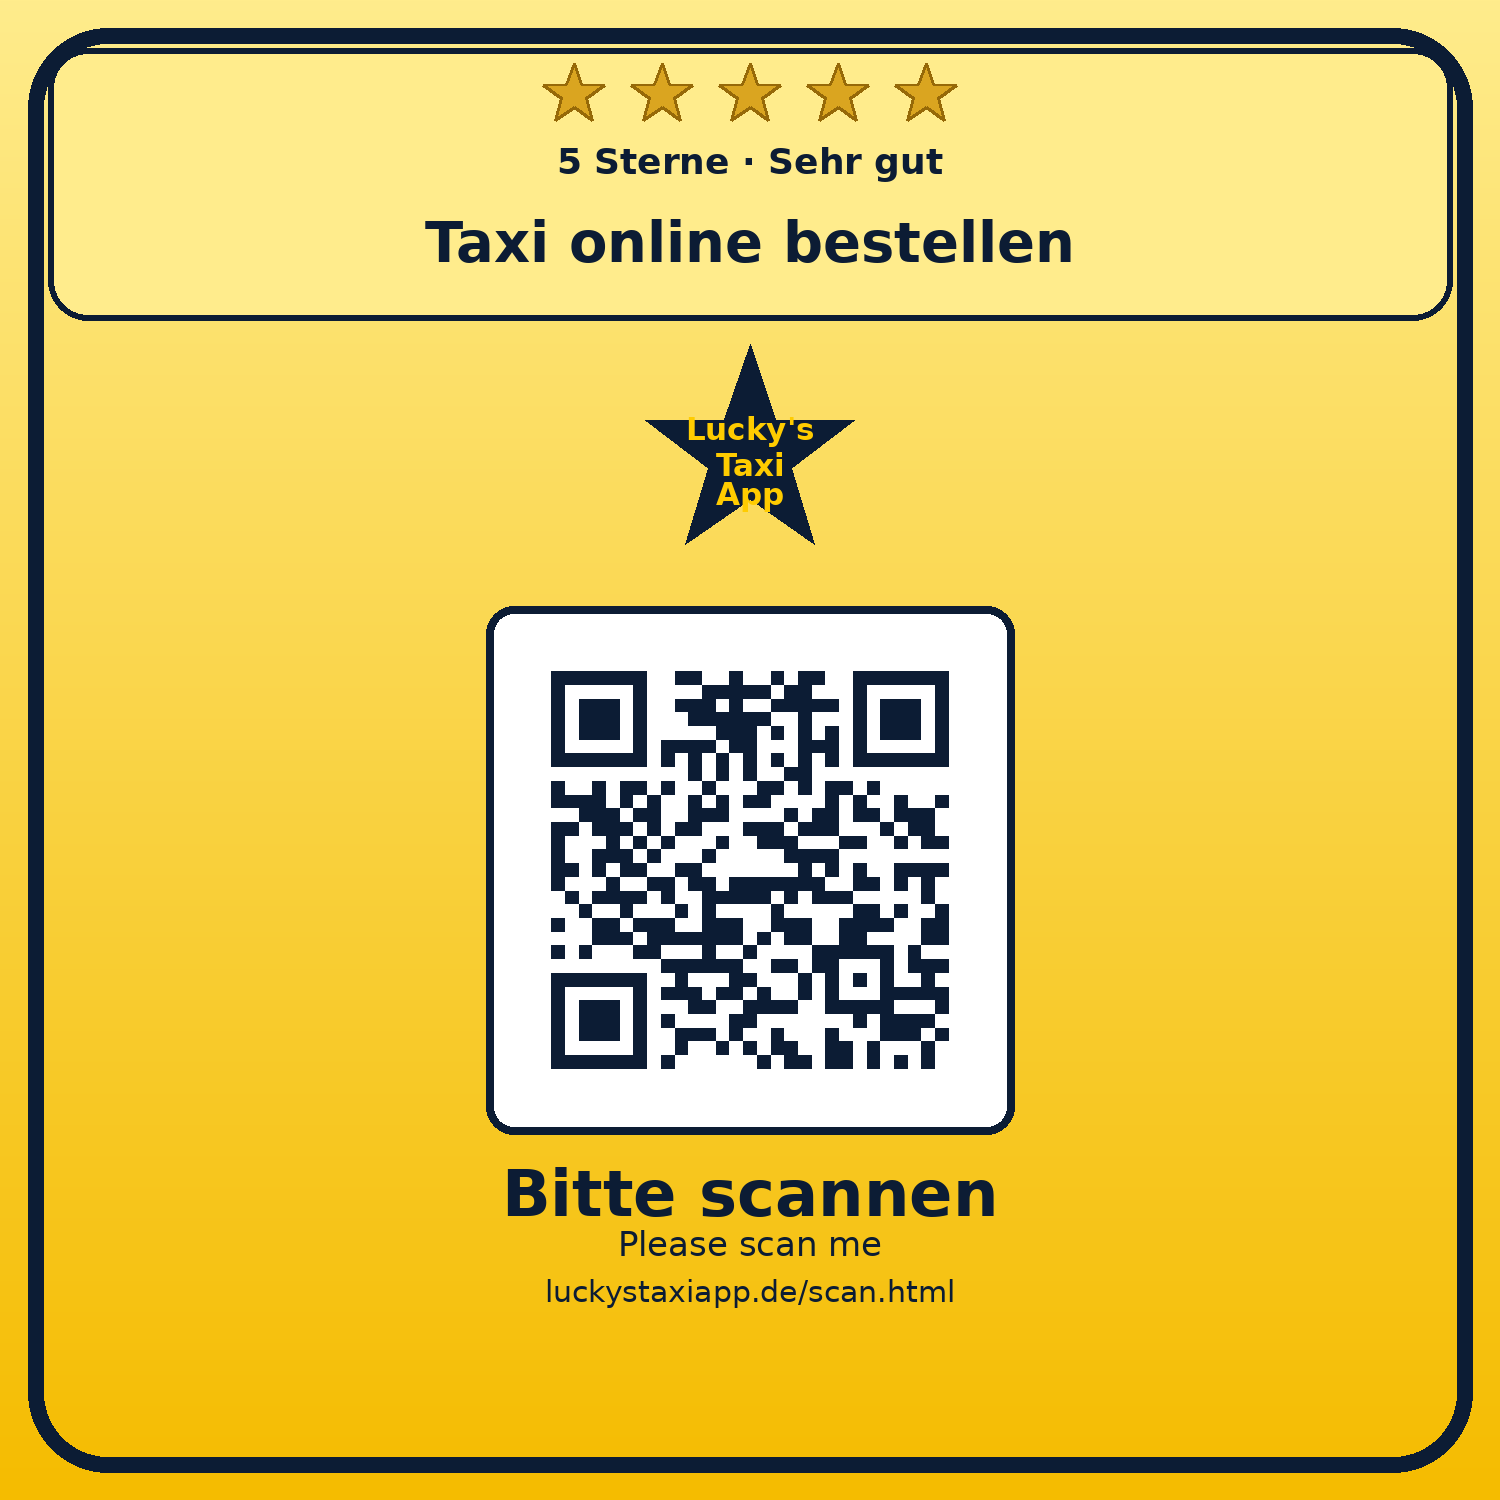
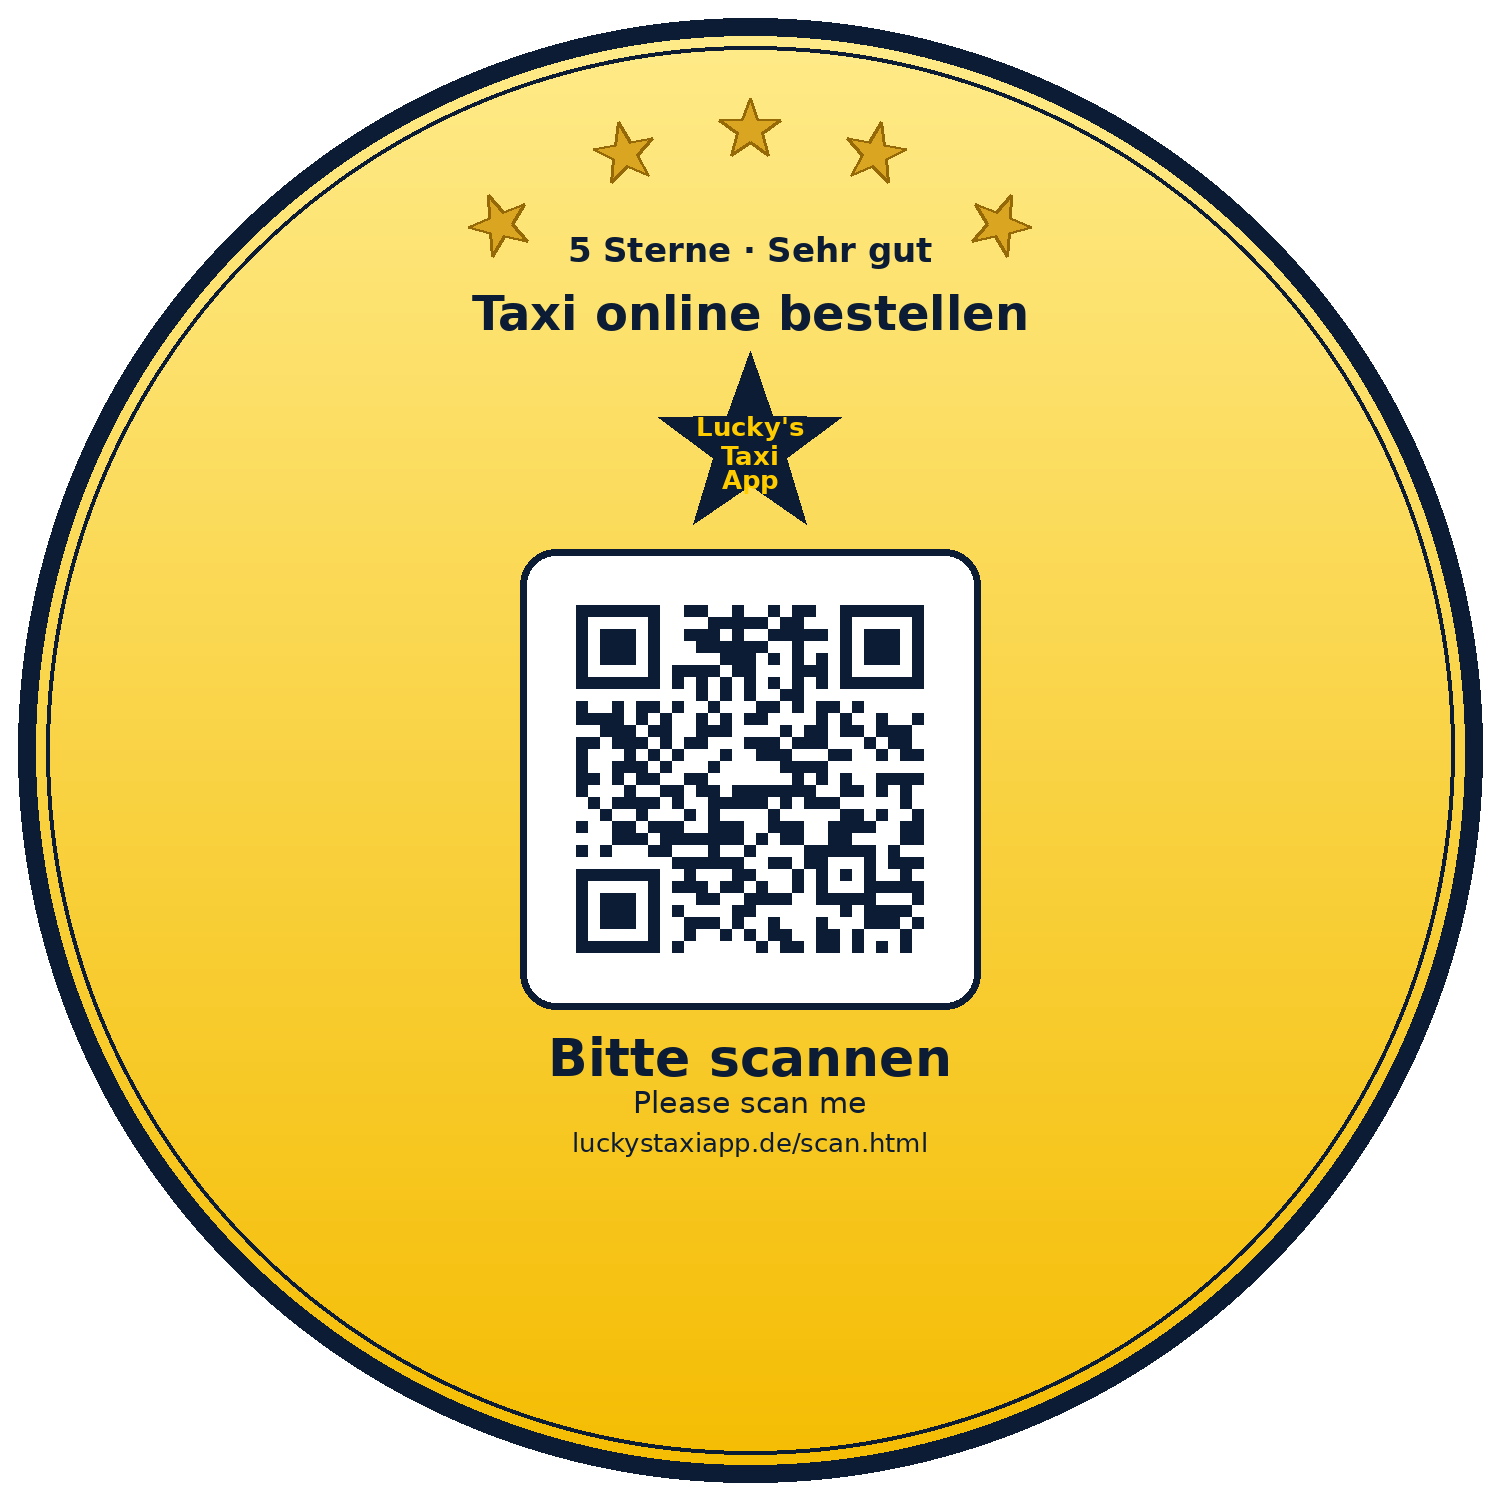
Gestalte Aufkleber rund mit Sternen im Bogen.
Rundes PNG mit transparenten Ecken; fünf goldene Sterne leicht gebogen oben.

diff --git a/web/qr.html b/web/qr.html
@@ -154,10 +154,10 @@
         Für Copyshop, Vistaprint oder Folienaufkleber (mind. 4×4&nbsp;cm, besser 6×6&nbsp;cm).
       </p>
       <p style="margin:0.75rem 0 0; display:flex; flex-wrap:wrap; gap:0.75rem">
-        <a class="btn" href="luckys-taxi-aufkleber-v2.png" download="luckys-taxi-aufkleber-v2.png">Aufkleber PNG herunterladen (neu)</a>
+        <a class="btn" href="luckys-taxi-aufkleber-rund.png" download="luckys-taxi-aufkleber-rund.png">Runden Aufkleber herunterladen</a>
         <a class="btn secondary" href="luckys-taxi-qr-scan.png" download="luckys-taxi-qr-scan.png">Nur QR (PNG)</a>
       </p>
-      <p class="note" style="margin-top:0.5rem">„Taxi online bestellen“ steht oben im hellen Feld — klar getrennt vom QR darunter.</p>
+      <p class="note" style="margin-top:0.5rem">Rundes Format, fünf Sterne im Bogen, „Taxi online bestellen“ oben — klar getrennt vom QR.</p>
     </section>
 
     <p class="no-print" style="margin-top:1.25rem">

diff --git a/backend/server.js b/backend/server.js
@@ -1474,6 +1474,7 @@ app.use(
       } else if (
         base === "luckys-taxi-aufkleber-qr.png" ||
         base === "luckys-taxi-aufkleber-v2.png" ||
+        base === "luckys-taxi-aufkleber-rund.png" ||
         base === "luckys-taxi-qr-scan.png"
       ) {
         res.setHeader("Cache-Control", "public, max-age=600, s-maxage=86400");

diff --git a/scripts/generate-aufkleber-qr.py b/scripts/generate-aufkleber-qr.py
@@ -1,5 +1,5 @@
 #!/usr/bin/env python3
-"""Luckys-Taxi-Aufkleber: Überschrift oben in eigener Zone, QR klar darunter."""
+"""Runder Luckys-Taxi-Aufkleber: Sterne im Bogen, QR → scan.html."""
 from __future__ import annotations
 
 import math
@@ -11,16 +11,18 @@ from PIL import Image, ImageDraw, ImageFont
 ROOT = Path(__file__).resolve().parents[1]
 OUT = ROOT / "web" / "luckys-taxi-aufkleber-qr.png"
 OUT_V2 = ROOT / "web" / "luckys-taxi-aufkleber-v2.png"
+OUT_ROUND = ROOT / "web" / "luckys-taxi-aufkleber-rund.png"
 OUT_QR_ONLY = ROOT / "web" / "luckys-taxi-qr-scan.png"
 SCAN_URL = "https://luckystaxiapp.de/scan.html"
 
-YELLOW = (255, 204, 0)
-YELLOW_LIGHT = (255, 236, 140)
-YELLOW_DEEP = (245, 188, 0)
-NAVY = (12, 28, 52)
-GOLD = (218, 165, 32)
-GOLD_EDGE = (150, 105, 8)
-WHITE = (255, 255, 255)
+YELLOW = (255, 204, 0, 255)
+YELLOW_LIGHT = (255, 236, 140, 255)
+YELLOW_DEEP = (245, 188, 0, 255)
+NAVY = (12, 28, 52, 255)
+GOLD = (218, 165, 32, 255)
+GOLD_EDGE = (150, 105, 8, 255)
+WHITE = (255, 255, 255, 255)
+TRANSPARENT = (0, 0, 0, 0)
 
 
 def font(size: int, bold: bool = True) -> ImageFont.FreeTypeFont | ImageFont.ImageFont:
@@ -52,27 +54,27 @@ def draw_star(draw, cx, cy, r, fill, outline=None, width=0):
 def center_text(draw, text, y, fnt, fill=NAVY, canvas=1500):
     bb = draw.textbbox((0, 0), text, font=fnt)
     tw = bb[2] - bb[0]
-    draw.text(((canvas - tw) / 2, y), text, font=fnt, fill=fill)
-    # absolute bbox where text was drawn
-    return draw.textbbox(((canvas - tw) / 2, y), text, font=fnt)
+    x = (canvas - tw) / 2
+    draw.text((x, y), text, font=fnt, fill=fill)
+    return draw.textbbox((x, y), text, font=fnt)
 
 
-def brand_mark(size=240) -> Image.Image:
-    mark = Image.new("RGBA", (size, size), (0, 0, 0, 0))
+def brand_mark(size=200) -> Image.Image:
+    mark = Image.new("RGBA", (size, size), TRANSPARENT)
     d = ImageDraw.Draw(mark)
     cx = cy = size / 2
     draw_star(d, cx, cy, size * 0.48, NAVY)
     lines = ["Lucky's", "Taxi", "App"]
-    f = font(max(24, int(size * 0.135)))
+    f = font(max(22, int(size * 0.13)))
     gaps = []
     for line in lines:
         bb = d.textbbox((0, 0), line, font=f)
         gaps.append((line, bb[2] - bb[0], bb[3] - bb[1]))
-    total_h = sum(h for _, _, h in gaps) + 5 * (len(lines) - 1)
-    y = cy - total_h / 2 + 4
+    total_h = sum(h for _, _, h in gaps) + 4 * (len(lines) - 1)
+    y = cy - total_h / 2 + 3
     for line, tw, th in gaps:
         d.text((cx - tw / 2, y), line, font=f, fill=YELLOW)
-        y += th + 5
+        y += th + 4
     return mark
 
 
@@ -80,79 +82,119 @@ def make_qr(side: int) -> Image.Image:
     qr = qrcode.QRCode(error_correction=qrcode.constants.ERROR_CORRECT_M, box_size=16, border=3)
     qr.add_data(SCAN_URL)
     qr.make(fit=True)
-    raw = qr.make_image(fill_color=NAVY, back_color=WHITE).convert("RGB")
+    raw = qr.make_image(fill_color=(12, 28, 52), back_color=(255, 255, 255)).convert("RGBA")
     return raw.resize((side, side), Image.Resampling.NEAREST)
+
+
+def draw_star_rotated(draw, cx, cy, r, angle_deg, fill, outline=None, width=0):
+    """Stern um eigene Mitte gedreht (folgt dem Bogen)."""
+    pts = []
+    rot = math.radians(angle_deg)
+    for i in range(10):
+        ang = math.radians(-90 + i * 36) + rot
+        rad = r if i % 2 == 0 else r * 0.4
+        pts.append((cx + rad * math.cos(ang), cy + rad * math.sin(ang)))
+    draw.polygon(pts, fill=fill)
+    if outline and width:
+        draw.line(pts + [pts[0]], fill=outline, width=width, joint="curve")
+
+
+def draw_stars_arc(draw, cx: float, cy_apex: float, half_width: float, bulge: float, r: float):
+    """5 Sterne deutlich im Bogen (Mitte höher); äußere leicht mitgedreht."""
+    for i in range(5):
+        t = (i - 2) / 2  # -1 … +1
+        x = cx + t * half_width
+        y = cy_apex + bulge * (t * t)
+        # Tangente der Parabel y = bulge * t^2 → äußere Sterne kippen nach außen
+        angle = t * 22  # Grad
+        draw_star_rotated(draw, x, y, r, angle, GOLD, outline=GOLD_EDGE, width=3)
 
 
 def main() -> None:
     size = 1500
-    img = Image.new("RGB", (size, size), YELLOW)
-    pix = img.load()
+    cx = cy = size / 2
+    radius = size // 2 - 18
+
+    # Transparent außerhalb des Kreises
+    img = Image.new("RGBA", (size, size), TRANSPARENT)
+    # Gelber Verlauf nur im Kreis
+    base = Image.new("RGBA", (size, size), TRANSPARENT)
+    bp = base.load()
     for y in range(size):
         t = y / (size - 1)
         r = int(YELLOW_LIGHT[0] * (1 - t) + YELLOW_DEEP[0] * t)
         g = int(YELLOW_LIGHT[1] * (1 - t) + YELLOW_DEEP[1] * t)
         b = int(YELLOW_LIGHT[2] * (1 - t) + YELLOW_DEEP[2] * t)
         for x in range(size):
-            pix[x, y] = (r, g, b)
-
+            if (x - cx) ** 2 + (y - cy) ** 2 <= radius**2:
+                bp[x, y] = (r, g, b, 255)
+    img = Image.alpha_composite(img, base)
     draw = ImageDraw.Draw(img)
-    draw.rounded_rectangle((28, 28, size - 28, size - 28), radius=80, outline=NAVY, width=16)
 
-    # === OBERE ZONE (helleres Band): Sterne + Überschrift — weit weg vom QR ===
-    header_bottom = 320
-    draw.rounded_rectangle((48, 48, size - 48, header_bottom), radius=40, fill=YELLOW_LIGHT, outline=NAVY, width=6)
+    # Navy-Ring
+    ring_w = 18
+    draw.ellipse(
+        (cx - radius, cy - radius, cx + radius, cy + radius),
+        outline=NAVY,
+        width=ring_w,
+    )
+    # Innerer feiner Ring
+    draw.ellipse(
+        (cx - radius + 28, cy - radius + 28, cx + radius - 28, cy + radius - 28),
+        outline=NAVY,
+        width=4,
+    )
 
-    star_y = 95
-    gap = 88
-    start_x = size / 2 - 2 * gap
-    for i in range(5):
-        draw_star(draw, start_x + i * gap, star_y, 32, GOLD, outline=GOLD_EDGE, width=3)
+    # 5 Sterne deutlich im Bogen oben (Mitte höher)
+    draw_stars_arc(draw, cx=cx, cy_apex=130, half_width=250, bulge=95, r=32)
 
-    center_text(draw, "5 Sterne · Sehr gut", 140, font(36))
+    center_text(draw, "5 Sterne · Sehr gut", 230, font(34))
+    lead_bb = center_text(draw, "Taxi online bestellen", 285, font(48))
 
-    # GROSSE Überschrift im hellen Band — kann nicht vom QR bedeckt werden
-    lead_bb = center_text(draw, "Taxi online bestellen", 210, font(56))
-    assert lead_bb[3] < header_bottom - 20, f"Lead zu tief: {lead_bb}"
-
-    # Markenstern unter dem Band
-    mark = brand_mark(230)
-    mark_y = header_bottom + 20
+    # Markenstern
+    mark = brand_mark(200)
+    mark_y = lead_bb[3] + 16
     img.paste(mark, ((size - mark.width) // 2, mark_y), mark)
 
-    # QR deutlich darunter
-    qr_side = 480
-    pad = 24
+    # QR zentriert
+    qr_side = 420
+    pad = 20
     qx = (size - qr_side) // 2
-    qy = mark_y + mark.height + 36 + pad
-    assert qy - pad > lead_bb[3] + 80, "QR zu nah an Überschrift"
-
+    qy = mark_y + mark.height + 22
+    # weißer Kreis-tauglicher Rahmen (abgerundet)
     draw.rounded_rectangle(
         (qx - pad, qy - pad, qx + qr_side + pad, qy + qr_side + pad),
-        radius=28,
+        radius=36,
         fill=WHITE,
         outline=NAVY,
-        width=8,
+        width=7,
     )
-    img.paste(make_qr(qr_side), (qx, qy))
+    qr_img = make_qr(qr_side)
+    img.paste(qr_img, (qx, qy), qr_img)
 
-    below = qy + qr_side + pad + 22
-    center_text(draw, "Bitte scannen", below, font(64))
-    center_text(draw, "Please scan me", below + 68, font(34, bold=False))
-    center_text(draw, "luckystaxiapp.de/scan.html", below + 118, font(30, bold=False))
+    below = qy + qr_side + pad + 18
+    center_text(draw, "Bitte scannen", below, font(52))
+    center_text(draw, "Please scan me", below + 58, font(30, bold=False))
+    center_text(draw, "luckystaxiapp.de/scan.html", below + 100, font(26, bold=False))
 
-    print(
-        f"Layout: lead_bottom={lead_bb[3]} header_band={header_bottom} "
-        f"mark_y={mark_y} qr_frame_top={qy - pad} gap_lead_to_qr={(qy - pad) - lead_bb[3]}"
+    # Nochmal Kreis-Maske (alles außerhalb transparent)
+    mask = Image.new("L", (size, size), 0)
+    ImageDraw.Draw(mask).ellipse(
+        (cx - radius, cy - radius, cx + radius, cy + radius),
+        fill=255,
     )
+    out = Image.new("RGBA", (size, size), TRANSPARENT)
+    out.paste(img, (0, 0), mask)
 
     OUT.parent.mkdir(parents=True, exist_ok=True)
-    img.save(OUT, "PNG", optimize=True)
-    img.save(OUT_V2, "PNG", optimize=True)
+    out.save(OUT, "PNG", optimize=True)
+    out.save(OUT_V2, "PNG", optimize=True)
+    out.save(OUT_ROUND, "PNG", optimize=True)
     make_qr(1200).save(OUT_QR_ONLY, "PNG", optimize=True)
-    print(f"Wrote {OUT}")
-    print(f"Wrote {OUT_V2}")
-    print(f"Wrote {OUT_QR_ONLY}")
+    print(f"Wrote round sticker → {OUT_ROUND}")
+    print(f"Also → {OUT}, {OUT_V2}")
+    print(f"QR only → {OUT_QR_ONLY}")
+    print(f"lead_bottom={lead_bb[3]} qr_top={qy - pad} gap={(qy - pad) - lead_bb[3]}")
 
 
 if __name__ == "__main__":
